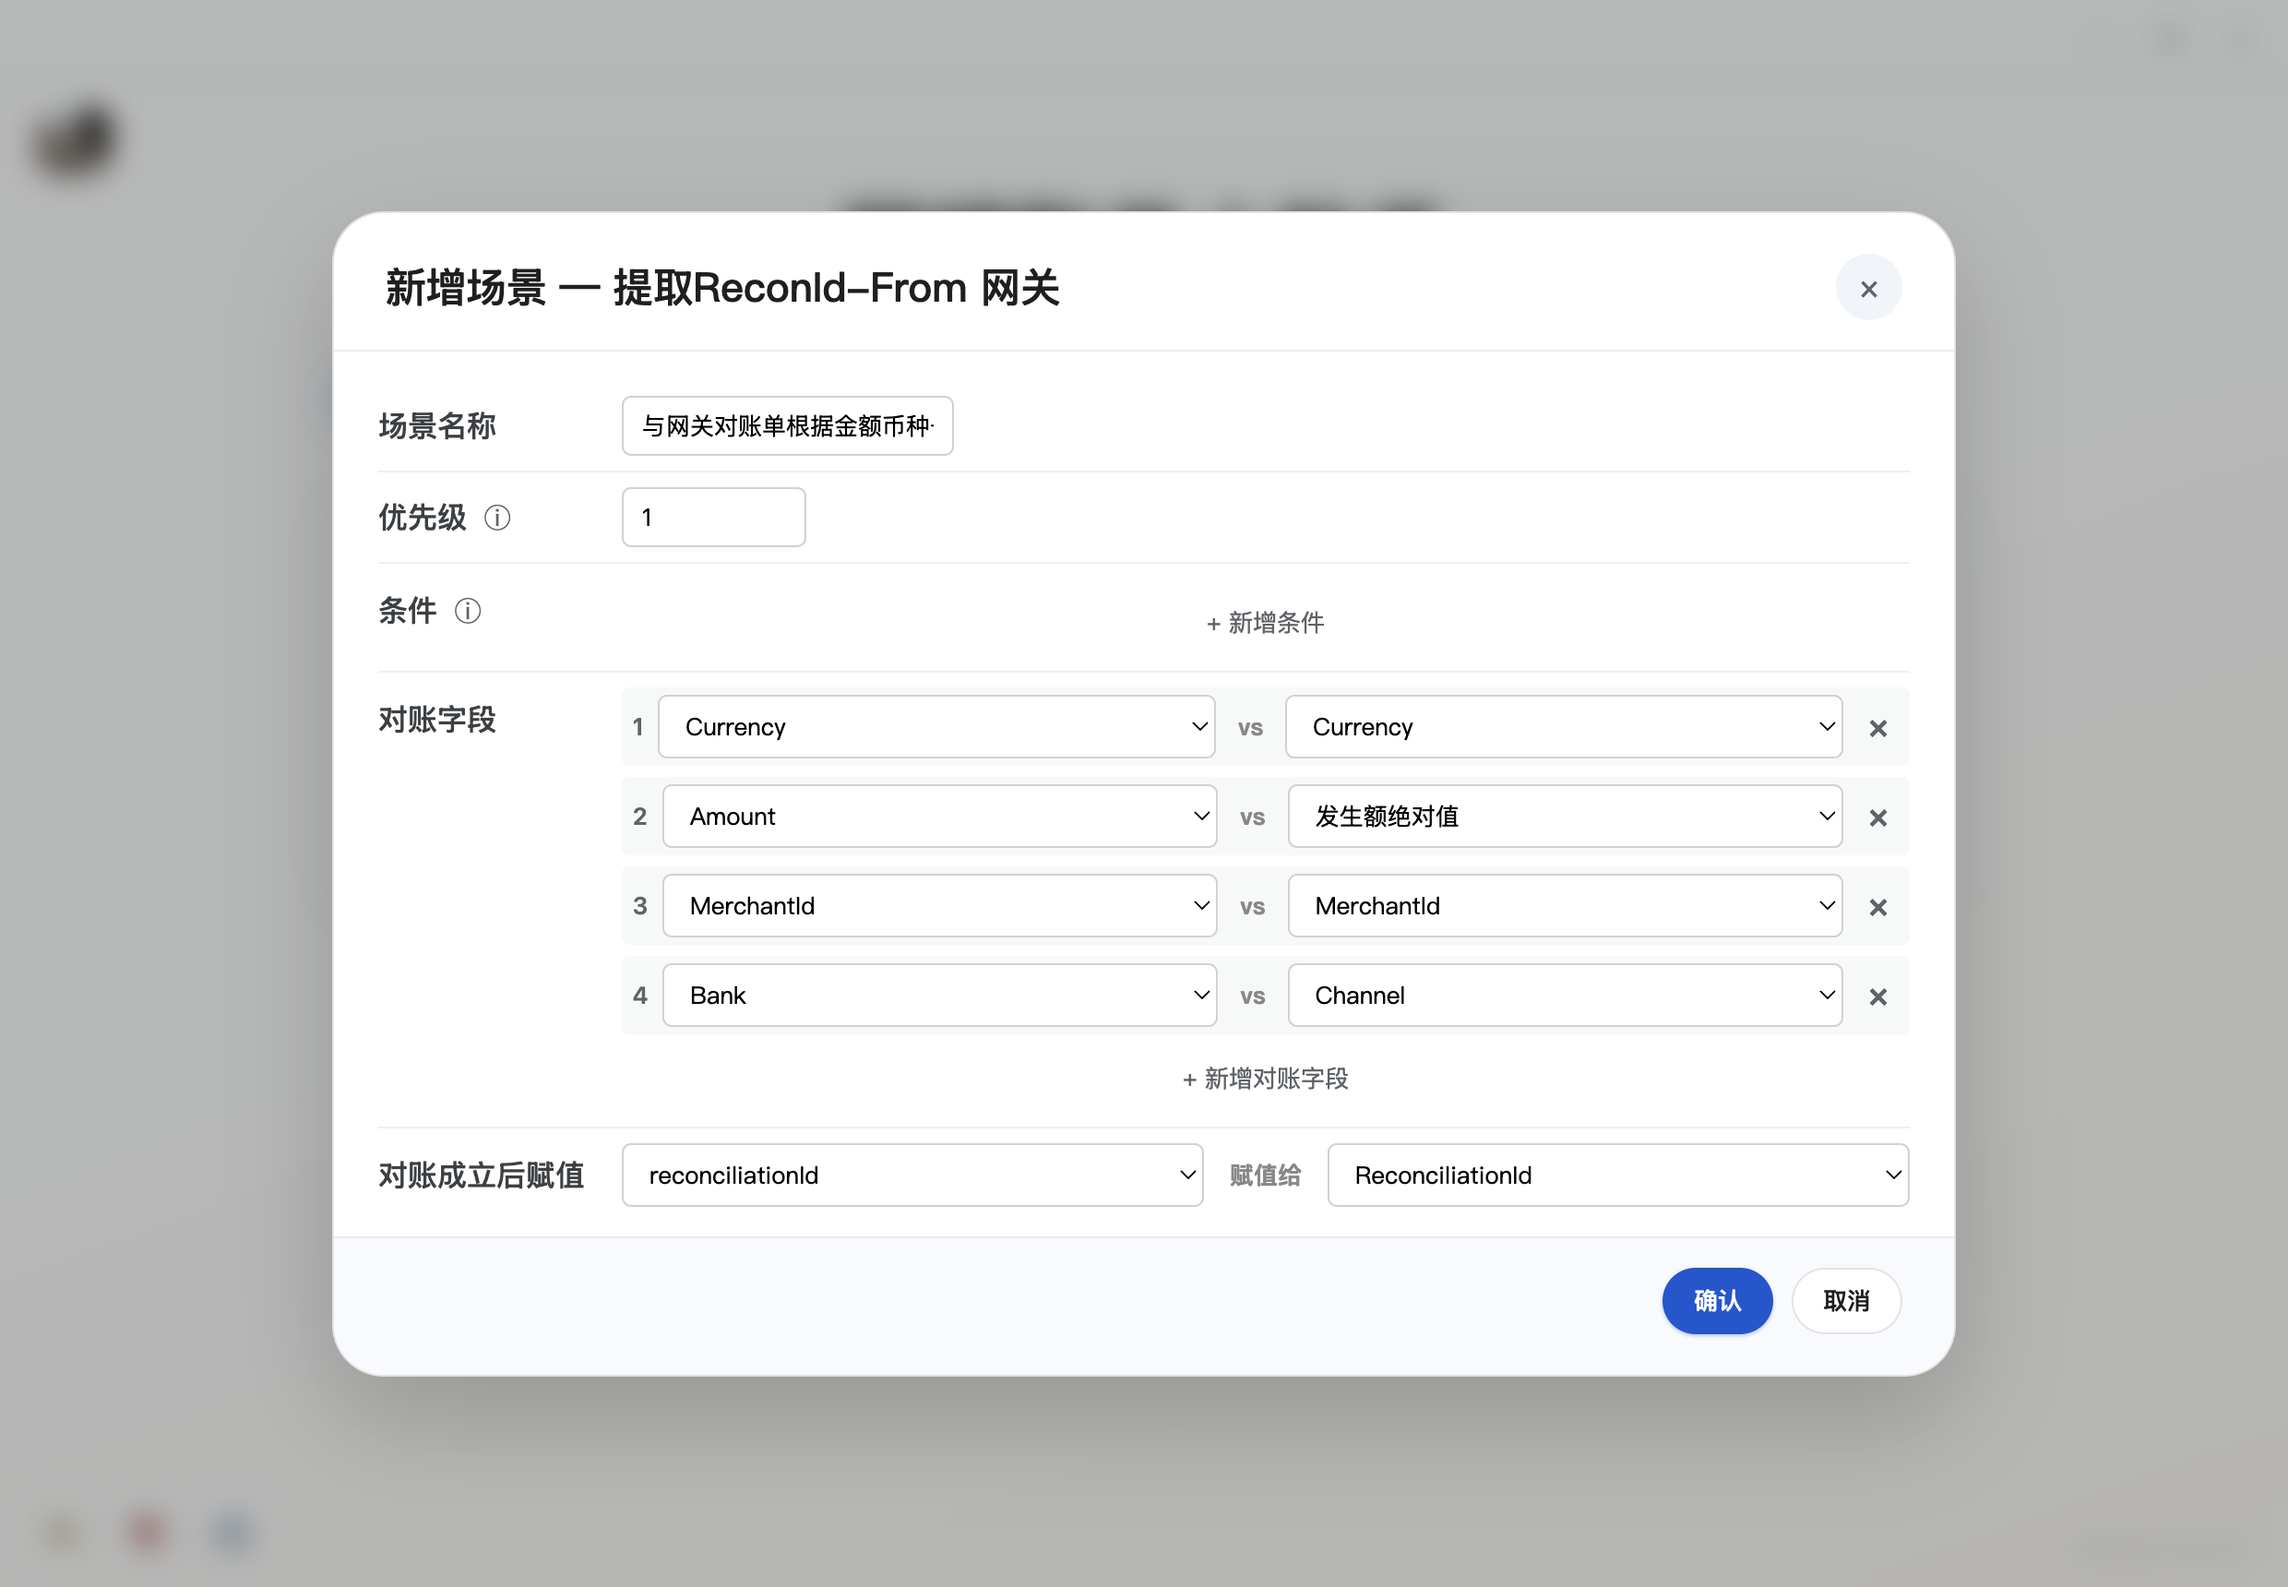
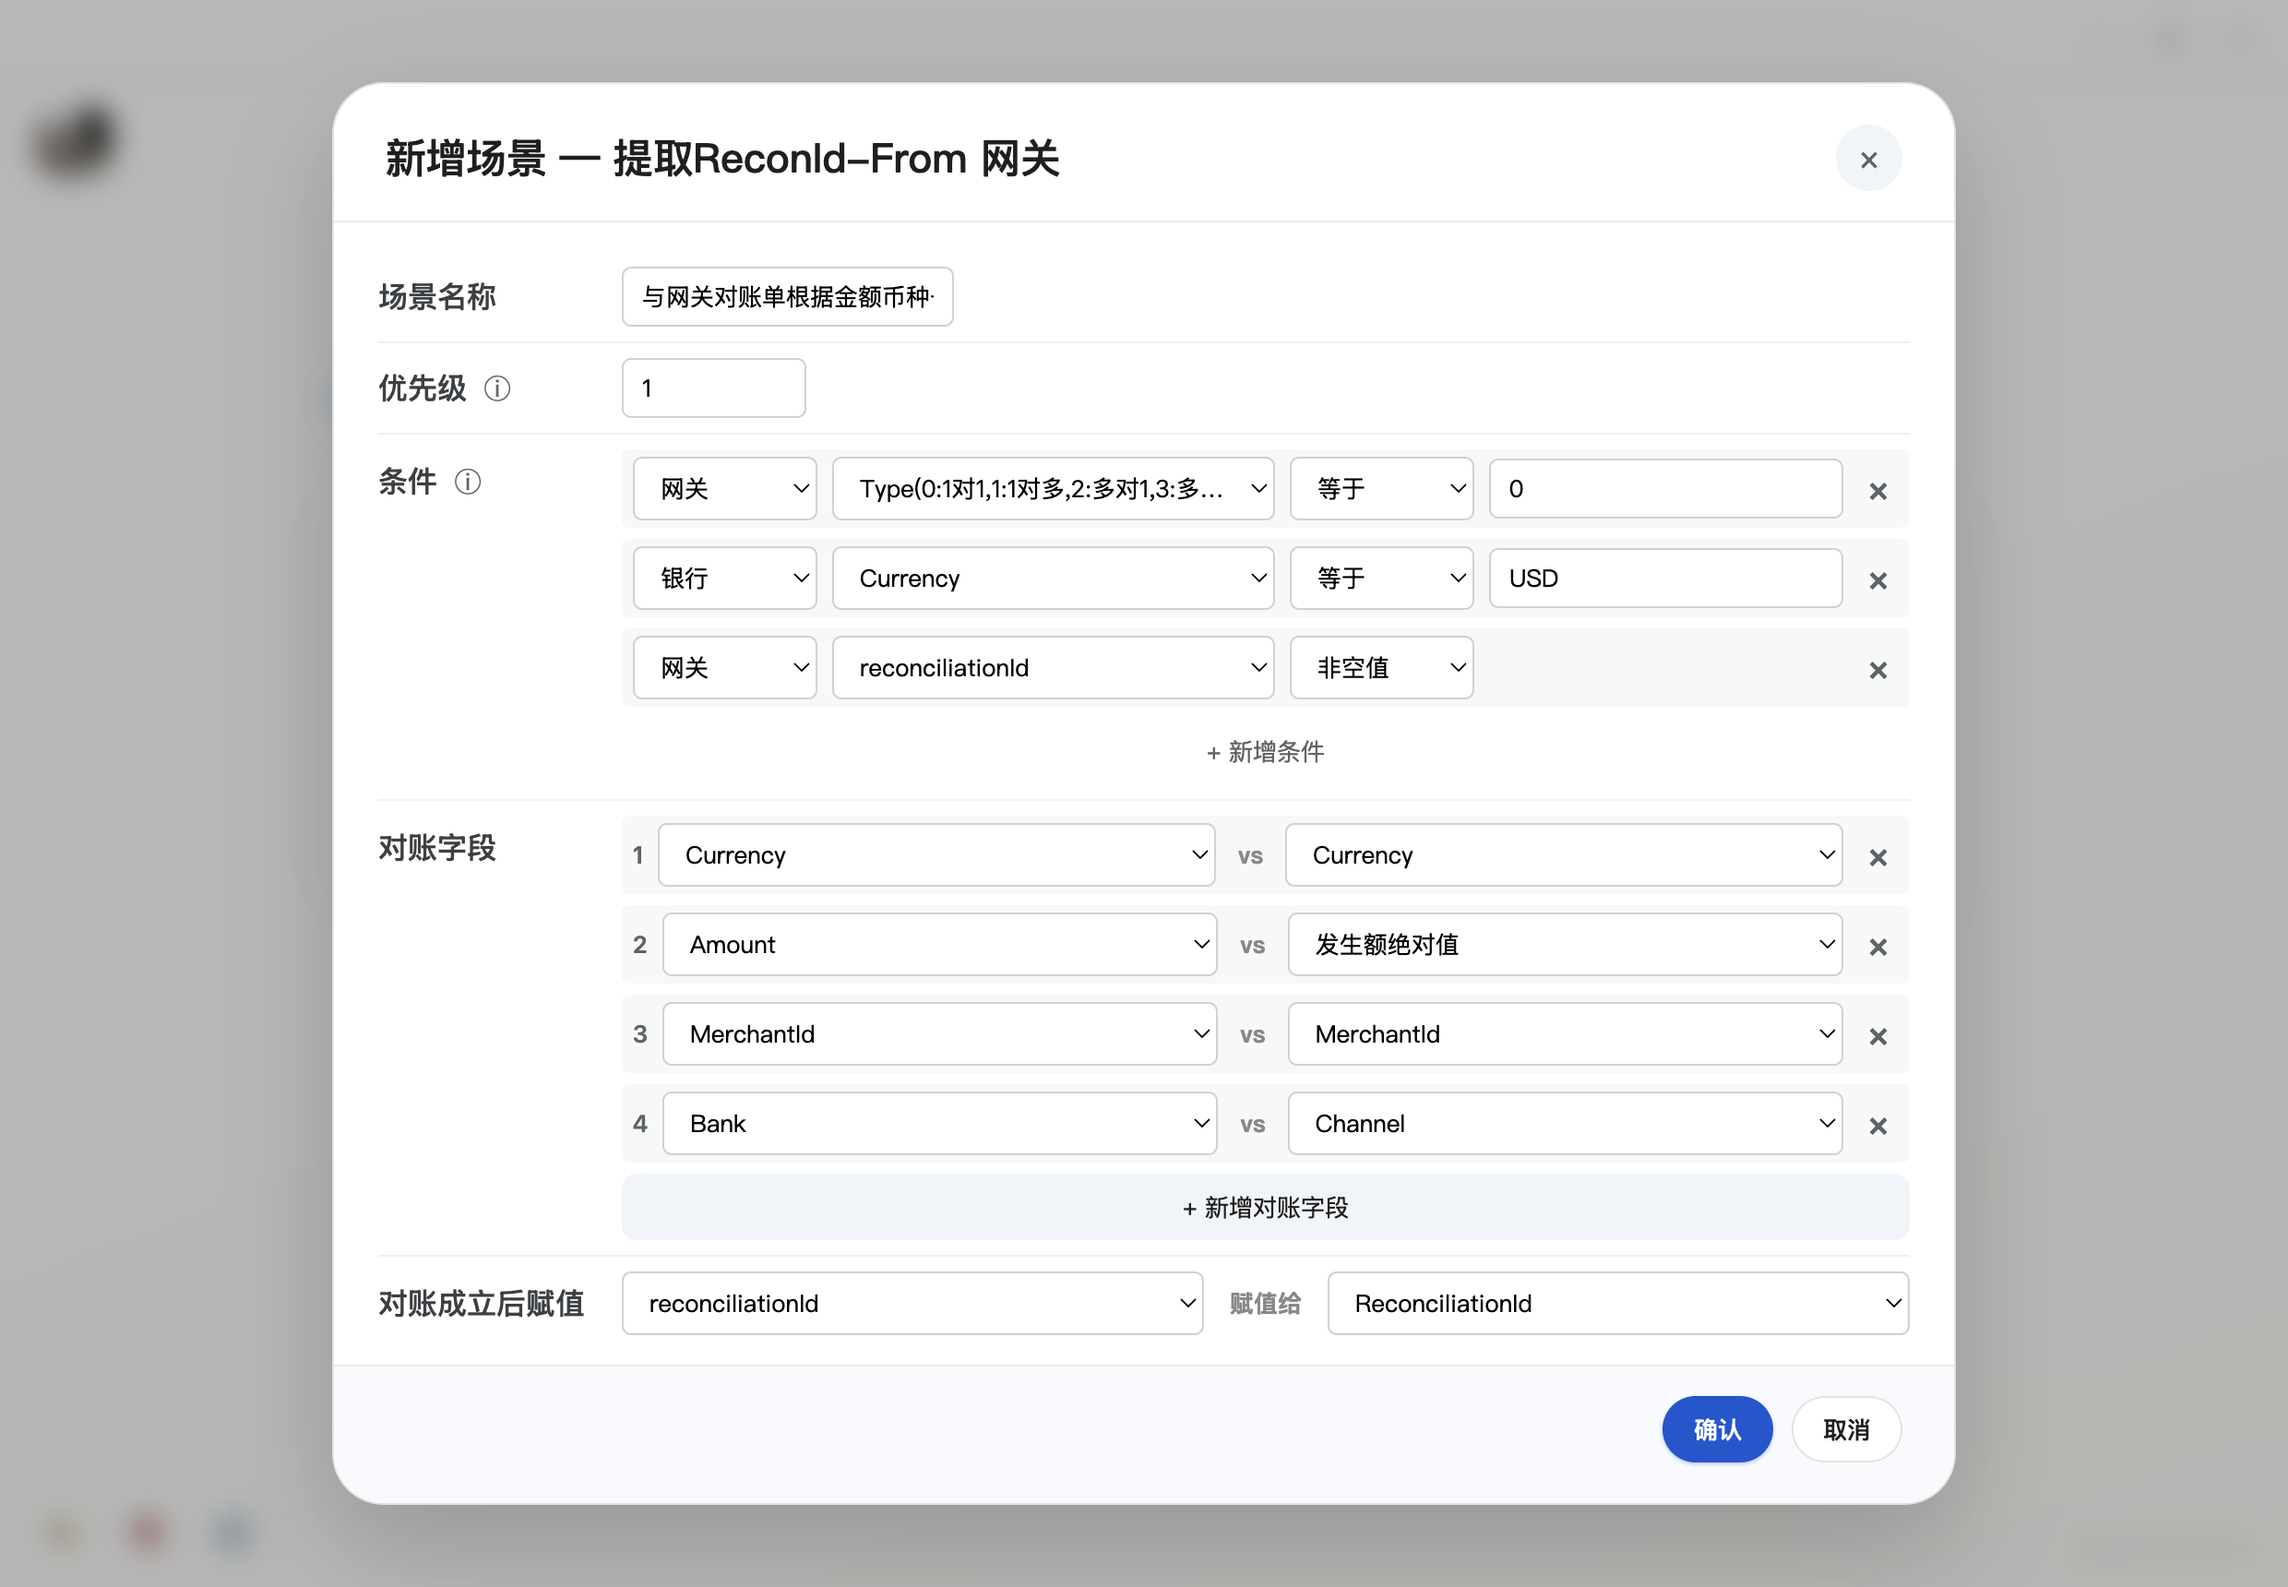
[v2.1.5] fix(self-review): I1 preview fixture 注入 conditions 数据 + refresh preview

diff --git a/src/renderer-previews.js b/src/renderer-previews.js
@@ -845,6 +845,13 @@
         name: '与网关对账单根据金额币种一对一匹配对账ID',
         priority: 1,
         config: {
+          // v2.1.5 fix1.1 self-review I1：注入 ≥ 2 行 conditions（含网关 + 银行 + 超长字段 +
+          //   '非空值' op 用于验证 value 输入框隐藏），可视化验证 fix1.1 的列宽固定效果
+          conditions: [
+            { side: '网关', field: 'Type(0:1对1,1:1对多,2:多对1,3:多对1（轧差合并)', op: '等于', value: '0' },
+            { side: '银行', field: 'Currency', op: '等于', value: 'USD' },
+            { side: '网关', field: 'reconciliationId', op: '非空值', value: '' }
+          ],
           reconFields: [
             { seq: 1, gwField: 'Currency', bankField: 'Currency' },
             { seq: 2, gwField: 'Amount', bankField: '发生额绝对值' },
